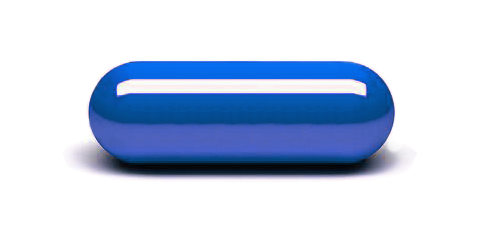
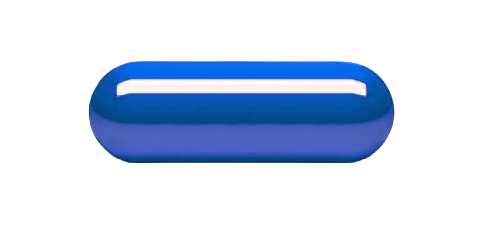
updated pill

diff --git a/static/css/theme.css b/static/css/theme.css
@@ -16,7 +16,7 @@
   --shade-100: #1a324c;
   --shade-300: #4383cb;
   --shade-500: #8cb0d9;
-  --secondary-color: #b37443cc;
+  --secondary-color: #a67a59;
   --grey-color: #303f50;
   --grey-text: #cfd8e2;
 }
